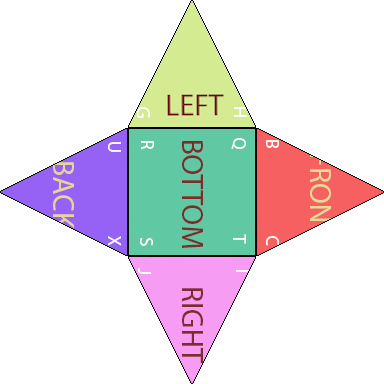
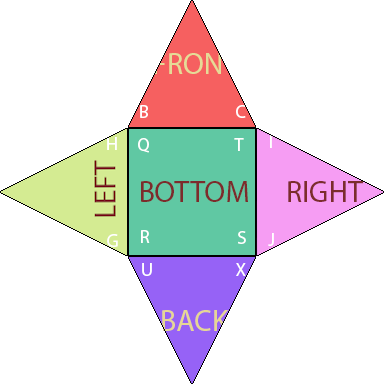
Welcome back Obamium

Changed region(s): [[0.0, 0.0, 1.0, 1.0]]

diff --git a/src/graphics/objects/meshes/pyramid/pyramid.cpp b/src/graphics/objects/meshes/pyramid/pyramid.cpp
@@ -2,7 +2,6 @@
 
 Pyramid::Pyramid(Renderer& renderer, int size) {
     float halfSize = size / 2.0f;
-
     // Calcul exact des normales pour une pyramide à base carrée
     // La valeur exacte pour sqrt(5) utilisée dans la normalisation
     const float sqrt5 = std::sqrtf(5.0f);
@@ -24,31 +23,31 @@ Pyramid::Pyramid(Renderer& renderer, int size) {
 
     // Définition des sommets avec normales calculées
     std::vector<Mesh::Vertex> vertices = {
-        // Base (Y = 0)
+        // Base
         {dx::XMFLOAT3(-halfSize, -halfSize, -halfSize), normalBase, dx::XMFLOAT2(twoOverThree, oneOverThree)},
         {dx::XMFLOAT3(halfSize , -halfSize, -halfSize), normalBase, dx::XMFLOAT2(twoOverThree, twoOverThree)},
         {dx::XMFLOAT3(-halfSize, -halfSize, halfSize ), normalBase, dx::XMFLOAT2(oneOverThree, oneOverThree)},
         {dx::XMFLOAT3(halfSize , -halfSize, halfSize ), normalBase, dx::XMFLOAT2(oneOverThree, twoOverThree)},
 
-        // Face avant (Z+)
-        {dx::XMFLOAT3(-halfSize, -halfSize, halfSize), normalFront, dx::XMFLOAT2(oneOverThree, oneOverThree)},
-        {dx::XMFLOAT3(halfSize , -halfSize, halfSize), normalFront, dx::XMFLOAT2(oneOverThree, twoOverThree)},
-        {dx::XMFLOAT3(0.0f     , size     , 0.0f    ), normalFront, dx::XMFLOAT2(1.0f, 0.5f)},
+        // Face avant (Z-)
+        {dx::XMFLOAT3(halfSize , -halfSize, -halfSize), normalFront, dx::XMFLOAT2(twoOverThree, oneOverThree)},
+        {dx::XMFLOAT3(-halfSize, -halfSize, -halfSize), normalFront, dx::XMFLOAT2(oneOverThree, oneOverThree)},
+        {dx::XMFLOAT3(0.0f     , halfSize     , 0.0f), normalFront, dx::XMFLOAT2(0.5f, 0.0f)},
 
         // Face droite (X+)
-        {dx::XMFLOAT3(halfSize, -halfSize, halfSize ), normalRight, dx::XMFLOAT2(oneOverThree, twoOverThree)},
-        {dx::XMFLOAT3(halfSize, -halfSize, -halfSize), normalRight, dx::XMFLOAT2(twoOverThree, twoOverThree)},
-        {dx::XMFLOAT3(0.0f    , size     , 0.0f     ), normalRight, dx::XMFLOAT2(0.5f, 1.0f)},
+        {dx::XMFLOAT3(halfSize, -halfSize, halfSize), normalRight, dx::XMFLOAT2(twoOverThree, twoOverThree)},
+        {dx::XMFLOAT3(halfSize, -halfSize, -halfSize), normalRight, dx::XMFLOAT2(twoOverThree, oneOverThree)},
+        {dx::XMFLOAT3(0.0f    , halfSize     , 0.0f     ), normalRight, dx::XMFLOAT2(1.0f, 0.5f)},
 
-        // Face arrière (Z-)
-        {dx::XMFLOAT3(halfSize , -halfSize, -halfSize), normalBack, dx::XMFLOAT2(twoOverThree, twoOverThree)},
-        {dx::XMFLOAT3(-halfSize, -halfSize, -halfSize), normalBack, dx::XMFLOAT2(twoOverThree, oneOverThree)},
-        {dx::XMFLOAT3(0.0f     , size     , 0.0f     ), normalBack, dx::XMFLOAT2(0.0f, 0.5f)},
+        // Face arrière (Z+)
+        {dx::XMFLOAT3(-halfSize, -halfSize, halfSize), normalBack, dx::XMFLOAT2(twoOverThree, twoOverThree)},
+        {dx::XMFLOAT3(halfSize , -halfSize, halfSize), normalBack, dx::XMFLOAT2(oneOverThree, twoOverThree)},
+        {dx::XMFLOAT3(0.0f     , halfSize     , 0.0f), normalBack, dx::XMFLOAT2(0.5f, 1.0f)},
 
         // Face gauche (X-)
-        {dx::XMFLOAT3(-halfSize, -halfSize, -halfSize), normalLeft, dx::XMFLOAT2(twoOverThree, oneOverThree)},
-        {dx::XMFLOAT3(-halfSize, -halfSize, halfSize ), normalLeft, dx::XMFLOAT2(oneOverThree, oneOverThree)},
-        {dx::XMFLOAT3(0.0f     , size     , 0.0f     ), normalLeft, dx::XMFLOAT2(0.5f, 0.0f)}
+        {dx::XMFLOAT3(-halfSize, -halfSize, -halfSize), normalLeft,dx::XMFLOAT2(oneOverThree, oneOverThree)},
+        {dx::XMFLOAT3(-halfSize, -halfSize, halfSize), normalLeft, dx::XMFLOAT2(oneOverThree, twoOverThree)},
+        {dx::XMFLOAT3(0.0f     , halfSize     , 0.0f), normalLeft, dx::XMFLOAT2(0.0f, 0.5f)}
     };
 
     // Définition des indices pour former les triangles
@@ -58,10 +57,10 @@ Pyramid::Pyramid(Renderer& renderer, int size) {
         1, 3, 2,
 
         // 4 faces latérales triangulaires
-        4, 5, 6,  // Face avant
-        7, 8, 9,  // Face droite
-        10, 11, 12, // Face arrière
-        13, 14, 15  // Face gauche
+        4, 5, 6,
+        7, 8, 9,
+		10, 11, 12,
+		13, 14, 15
     };
 
     this->vertexBuffer = std::make_shared<VertexBuffer>(renderer, vertices, 0u);

diff --git a/src/graphics/scenes/loadingScene.cpp b/src/graphics/scenes/loadingScene.cpp
@@ -12,8 +12,8 @@ void LoadingScene::onLoad() {
 	Color::YELLOW
 	};
 
-	std::shared_ptr<Image> pImg = std::make_shared<Image>(L"assets/img/squarePyramid.png");
-	Mesh pyramid = Pyramid(renderer);
+	std::shared_ptr<Image> pImg = std::make_shared<Image>(L"assets/img/obamium.png");
+	Mesh pyramid = Pyramid(this->renderer);
 	this->pDrawables.push_back(std::make_unique<SingleMeshDrawable>(
 		this->renderer,
 		dx::XMFLOAT3{ 0.0f, 0.0f, 0.0f },
@@ -23,11 +23,13 @@ void LoadingScene::onLoad() {
 		L"texturedPS",
 		pImg
 	));
-	this->pDrawables[0]->setScale(dx::XMFLOAT3(3.0f, 2.5f, 3.0f));
+	//this->pDrawables[0]->setScale(dx::XMFLOAT3(3.0f, 2.5f, 3.0f));
+	this->renderer.getCamera().setPosition(0.0f, 0.0f, -2.0f);
 }
 
 void LoadingScene::update(float deltaTime) {
-	//this->pDrawables[0]->rotate(dx::XMFLOAT3(0.0f, deltaTime * 200.0f, 0.0f), 0.1f);
+	float rotSpeed = deltaTime * 3.0f;
+	this->pDrawables[0]->rotate(dx::XMFLOAT3(0.0f, rotSpeed, 0.0f), deltaTime);
 	Scene::update(deltaTime);
 	this->renderer.renderText(L"Loading...", dx::XMFLOAT2(350, 420), 16, Color::WHITE);
 }

diff --git a/src/graphics/scenes/gameScene.cpp b/src/graphics/scenes/gameScene.cpp
@@ -4,7 +4,6 @@ GameScene::GameScene(Renderer& renderer, std::string name)
 	: Scene(renderer, name), light(Light(renderer, dx::XMFLOAT3(0.0f, 5.0f, 0.0f), Color::WHITE)) {}
 
 void GameScene::onLoad() {
-
 	std::shared_ptr<Image> pImg = std::make_shared<Image>(L"assets/img/sky.png");
 	pImg->inverse();
 	std::unique_ptr<Drawable> skyBox = std::make_unique<SkyBox>(this->renderer, pImg, 5000.0f);
@@ -35,8 +34,6 @@ void GameScene::onLoad() {
 		Color::GREEN
 	);
 	this->pDrawables.push_back(std::move(motocycle));
-
-	SLEEP(10);
 	
 	renderer.getCamera().setPosition(0.0f, 1.5f, 0.0f);
 }

diff --git a/src/graphics/objects/camera.cpp b/src/graphics/objects/camera.cpp
@@ -17,8 +17,8 @@ void Camera::setAspectRatio(float aspectRatio) noexcept {
 	updateProjection();
 }
 
-void Camera::updateFOV(float delatFOV) noexcept {
-	this->fov += delatFOV;
+void Camera::updateFOV(float deltaFOV) noexcept {
+	this->fov += deltaFOV;
 	updateProjection();
 }
 
